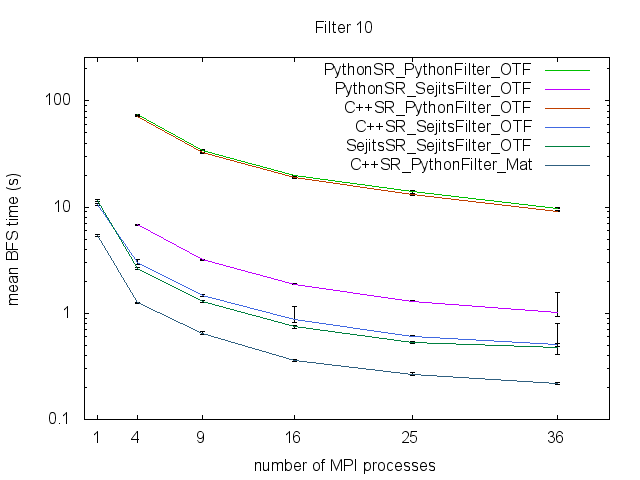
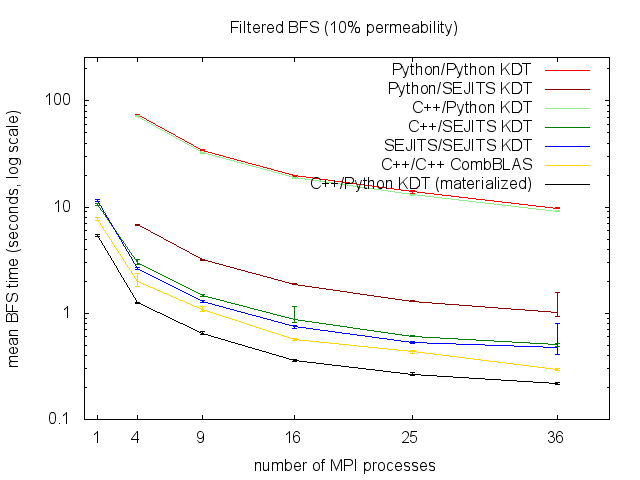
updated plots

diff --git a/sandbox/AnalyzeIPDPS.py b/sandbox/AnalyzeIPDPS.py
@@ -9,18 +9,49 @@ filters = [1, 10, 25, 100]
 
 if sys.argv[1] == "bfs":
 	cores = {1: "result_ipdps_bfs_22_1.txt", 4: "result_ipdps_bfs_22_4.txt", 9: "result_ipdps_bfs_22_9.txt", 16: "result_ipdps_bfs_22_16.txt", 25: "result_ipdps_bfs_22_25.txt", 36: "result_ipdps_bfs_22_36.txt"}
+	combblas_file = "result_ipdps_bfs_22_combblas.txt"
+	# combblas file format: each line is a tab-delimited tuple:
+	# core count, filter percentage, min time, max time, mean time
 	
-	experiments = ["PythonSR_PythonFilter_OTF", "PythonSR_SejitsFilter_OTF", "C++SR_PythonFilter_OTF","C++SR_SejitsFilter_OTF", "SejitsSR_SejitsFilter_OTF", "C++SR_PythonFilter_Mat"]
+	experiments = [("PythonSR_PythonFilter_OTF", "Python/Python KDT", "#FF0000"), # red (kinda light)
+		("PythonSR_SejitsFilter_OTF", "Python/SEJITS KDT", "#8B0000"), # dark red
+		("C++SR_PythonFilter_OTF", "C++/Python KDT", "#90EE90"), # light green
+		("C++SR_SejitsFilter_OTF", "C++/SEJITS KDT", "#008000"), # green (but it's dark)
+		("SejitsSR_SejitsFilter_OTF", "SEJITS/SEJITS KDT", "#0000FF"), # blue (but it's dark)
+		("CombBLAS_OTF", "C++/C++ CombBLAS", "#FFD700"), # gold
+		("C++SR_PythonFilter_Mat", "C++/Python KDT (materialized)", "#000000")] # black
 	
 	# ID will be replaced by strings from experiments array
 	experiment_varieties = ["mean_IDtime", "min_IDtime", "max_IDtime"]
+	
+	result_type = "BFS"
+	
+	def parseCombBLAS(data):
+		for line in open(combblas_file, 'r'):
+			feats = line.split("\t")
+			core = int(feats[0])
+			filter = int(float(feats[1]))
+			min_time = float(feats[2])
+			max_time = float(feats[3])
+			mean_time = float(feats[4])
+			data.append((core, "min_CombBLAS_OTFtime", filter, min_time))
+			data.append((core, "max_CombBLAS_OTFtime", filter, max_time))
+			data.append((core, "mean_CombBLAS_OTFtime", filter, mean_time))
+		
 elif sys.argv[1] == "mis":
 	cores = {1: "result_ipdps_MIS_1.txt", 4: "result_ipdps_MIS_4.txt", 9: "result_ipdps_MIS_9.txt", 16: "result_ipdps_MIS_16.txt", 25: "result_ipdps_MIS_25.txt", 36: "result_ipdps_MIS_36.txt"}
 	
-	experiments = ["PythonSR_PythonFilter_ER_OTF_22", "PythonSR_SejitsFilter_ER_OTF_22", "SejitsSR_SejitsFilter_ER_OTF_22"]
+	experiments = [("PythonSR_PythonFilter_ER_OTF_22", "Python/Python KDT", "#FF0000"), # red (kinda light)
+				("PythonSR_SejitsFilter_ER_OTF_22", "Python/SEJITS KDT", "#8B0000"), # dark red
+				("SejitsSR_SejitsFilter_ER_OTF_22", "SEJITS/SEJITS KDT", "#008000")] # blue (but it's dark)
 	
 	# ID will be replaced by strings from experiments array
 	experiment_varieties = ["mean_IDtime", "min_IDtime", "max_IDtime"]
+
+	result_type = "MIS"
+
+	def parseCombBLAS(data):
+		pass
 else:
 	print "unknown option. use bfs or mis"
 	sys.exit()
@@ -28,7 +59,7 @@ else:
 varieties = []
 for exp in experiments:
 	for var in experiment_varieties:
-		varieties.append(var.replace("ID", exp))
+		varieties.append(var.replace("ID", exp[0]))
 
 
 data = []
@@ -43,6 +74,8 @@ for (core, file) in cores.items():
 				# : = feats[2]
 				time = float(feats[3])
 				data.append((core, var, filter, time))
+
+parseCombBLAS(data)
 
 # printer
 def format_table(data, group_col_idx, group_col_select_val, col_ids, row_ids, col_idx, row_idx, value_idx):
@@ -88,7 +121,7 @@ for filter in filters:
 	filestem = "gnuplot_%d"%filter
 	
 	gnuplot = ""
-	gnuplot += 'set title "Filter %d"\n'%(filter)
+	gnuplot += 'set title "Filtered %s (%d%% permeability)"\n'%(result_type, filter)
 	gnuplot += 'set terminal png\n'
 	gnuplot += 'set output "%s.png"\n'%filestem
 	gnuplot += ''
@@ -96,7 +129,7 @@ for filter in filters:
 	gnuplot += 'set yrange [0.1:256]\n'
 	gnuplot += 'set logscale y\n'
 	gnuplot += "set xlabel 'number of MPI processes'\n"
-	gnuplot += "set ylabel 'mean BFS time (s)'\n"
+	gnuplot += "set ylabel 'mean %s time (seconds, log scale)'\n"%(result_type)
 	
 	xtics = ""
 	cc = cores.keys()
@@ -116,8 +149,8 @@ for filter in filters:
 			comma = ",\\"
 		else:
 			comma = ""
-		gnuplot += ' "%s.dat" every ::1 using 1:%d:%d:%d title \'\' ps 0 lc rgb \'black\' with errorbars,\\\n'%(filestem, exp_col_start,exp_col_start+1,exp_col_start+2)
-		gnuplot += ' "%s.dat" every ::1 using 1:%d title \'%s\' with lines%s\n'%(filestem, exp_col_start, experiments[i], comma)
+		gnuplot += ' "%s.dat" every ::1 using 1:%d:%d:%d title \'\' ps 0 lc rgb \'%s\' with errorbars,\\\n'%(filestem, exp_col_start,exp_col_start+1,exp_col_start+2, experiments[i][2])
+		gnuplot += ' "%s.dat" every ::1 using 1:%d title \'%s\' lc rgb \'%s\' with lines%s\n'%(filestem, exp_col_start, experiments[i][1], experiments[i][2], comma)
 
 	print ""
 	print gnuplot
